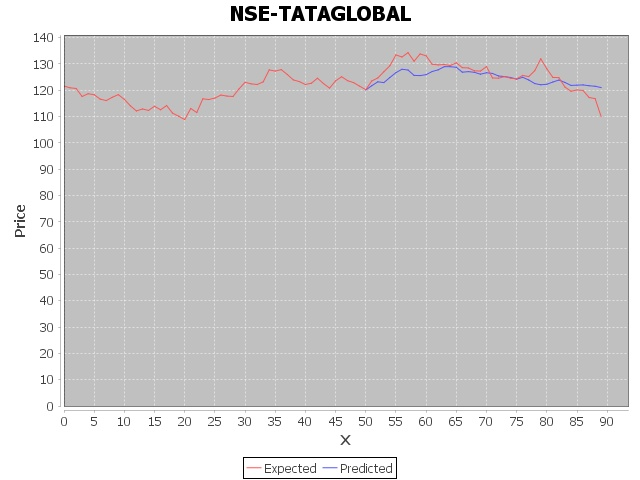
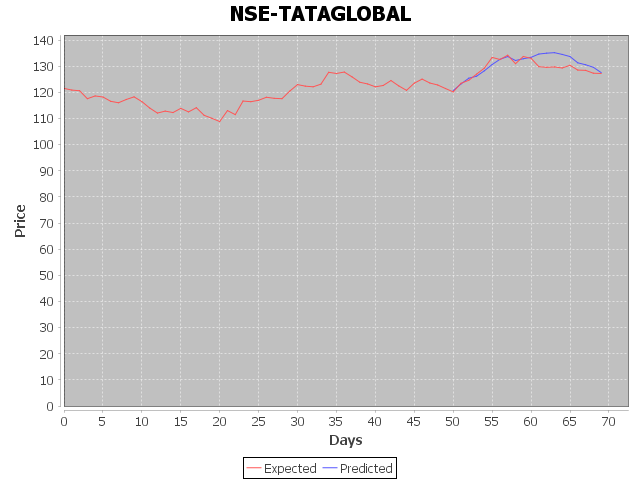
Dynamic Output normalization

diff --git a/src/main/java/org/pp/Test.java b/src/main/java/org/pp/Test.java
@@ -22,8 +22,8 @@ import java.io.File;
 public class Test {
 
     static int inpNum = 50;
-    static int outNum = 40;
-    static double outputNorm = 0.04;
+    static int outNum = 20;
+    static double outputNorm;
     static CustomDataPrePreprocessor normalizer = new CustomDataPrePreprocessor();
 
     @SneakyThrows
@@ -53,18 +53,18 @@ public class Test {
 
 
         JFreeChart xylineChart = ChartFactory.createXYLineChart(
-                "NSE-TATAGLOBAL" ,
-                "X" ,
-                "Price" ,
-                dataset ,
-                PlotOrientation.VERTICAL ,
-                true , true , false);
+                "NSE-TATAGLOBAL",
+                "Days",
+                "Price",
+                dataset,
+                PlotOrientation.VERTICAL,
+                true, true, false);
 
 
         int width = 640;   /* Width of the image */
         int height = 480;  /* Height of the image */
         File XYChart = new File( "Results.png" );
-        ChartUtilities.saveChartAsJPEG( XYChart, xylineChart, width, height);
+        ChartUtilities.saveChartAsPNG(XYChart, xylineChart, width, height);
     }
 
     private static INDArray predictSteps(MultiLayerNetwork network, INDArray input, int steps){
@@ -72,7 +72,14 @@ public class Test {
         INDArray stepsValues = Nd4j.create(steps);
 
         for (int i = 0; i < steps; i++) {
-            double output = network.output(tempInput).getDouble(0, 0, 0) - outputNorm;
+
+            //calc outputNorm value
+            if (i == 0){
+                double output = network.output(tempInput).getDouble(0, 0);
+                outputNorm = Math.round(Math.abs(output - input.getDouble(0, inpNum - 1, 0)) * 100.0) / 100.0;
+            }
+
+            double output = network.output(tempInput).getDouble(0, 0) - outputNorm;
 
             stepsValues.putScalar(i, output);
 
@@ -95,7 +102,7 @@ public class Test {
         for (int i = 0; i < inpNum; i++)
             expectedSeries.add(i, expInput.getDouble(0, i, 0));
         for (int i = 0; i < outNum; i++)
-            expectedSeries.add(i+inpNum, expOutput.getDouble(0, i, 0));
+            expectedSeries.add(i+inpNum, expOutput.getDouble(0, i));
 
         return expectedSeries;
     }

diff --git a/src/main/java/org/pp/nn/NeuralNetwork.java b/src/main/java/org/pp/nn/NeuralNetwork.java
@@ -4,7 +4,9 @@ import org.deeplearning4j.nn.api.OptimizationAlgorithm;
 import org.deeplearning4j.nn.conf.MultiLayerConfiguration;
 import org.deeplearning4j.nn.conf.NeuralNetConfiguration;
 import org.deeplearning4j.nn.conf.WorkspaceMode;
+import org.deeplearning4j.nn.conf.layers.DenseLayer;
 import org.deeplearning4j.nn.conf.layers.LSTM;
+import org.deeplearning4j.nn.conf.layers.OutputLayer;
 import org.deeplearning4j.nn.conf.layers.RnnOutputLayer;
 import org.deeplearning4j.nn.multilayer.MultiLayerNetwork;
 import org.deeplearning4j.nn.weights.WeightInit;
@@ -39,7 +41,17 @@ public class NeuralNetwork {
                         .nIn(hiddenLayerNum)
                         .nOut(hiddenLayerNum).build())
 
-                .layer(new RnnOutputLayer.Builder(LossFunctions.LossFunction.MSE)
+                .layer(new DenseLayer.Builder().name("Dense1")
+                        .activation(Activation.IDENTITY)
+                        .nIn(hiddenLayerNum)
+                        .nOut(hiddenLayerNum).build())
+
+                .layer(new DenseLayer.Builder().name("Dense2")
+                        .activation(Activation.IDENTITY)
+                        .nIn(hiddenLayerNum)
+                        .nOut(hiddenLayerNum).build())
+
+                .layer(new OutputLayer.Builder(LossFunctions.LossFunction.MSE)
                         .activation(Activation.IDENTITY)
                         .nIn(hiddenLayerNum)
                         .nOut(outNum).build())

diff --git a/src/main/java/org/pp/data/StockCSVDataSetFetcher.java b/src/main/java/org/pp/data/StockCSVDataSetFetcher.java
@@ -83,7 +83,7 @@ public class StockCSVDataSetFetcher implements DataSetFetcher {
 
         for (int i = 0; i < numExamples; i++) {
             INDArray input = Nd4j.create(1, inputColumns, 1);
-            INDArray output = Nd4j.create(1, totalOutcomes, 1);
+            INDArray output = Nd4j.create(1, totalOutcomes);
 
             for (int j = 0; j < inputColumns; j++){
                 double val = Double.parseDouble(allLines.get(ReaderCursor + j + i).split(",")[5]);
@@ -94,7 +94,7 @@ public class StockCSVDataSetFetcher implements DataSetFetcher {
             for (int z = 0; z < totalOutcomes; z++){
                 double val = Double.parseDouble(allLines.get(ReaderCursor + inputColumns + z + i).split(",")[5]);
 
-                output.putScalar(0, z, 0, val);
+                output.putScalar(0, z, val);
             }
 
             fetch.add(new DataSet(input, output));

diff --git a/src/main/java/org/pp/Finetune.java b/src/main/java/org/pp/Finetune.java
@@ -33,7 +33,7 @@ public class Finetune {
 
         uiServerComponent.reinitialize(network);
 
-        int epochNum = 500;
+        int epochNum = 250;
 
         for (int i = 0; i < epochNum; i++) {
             network.fit(datasetIterator);
